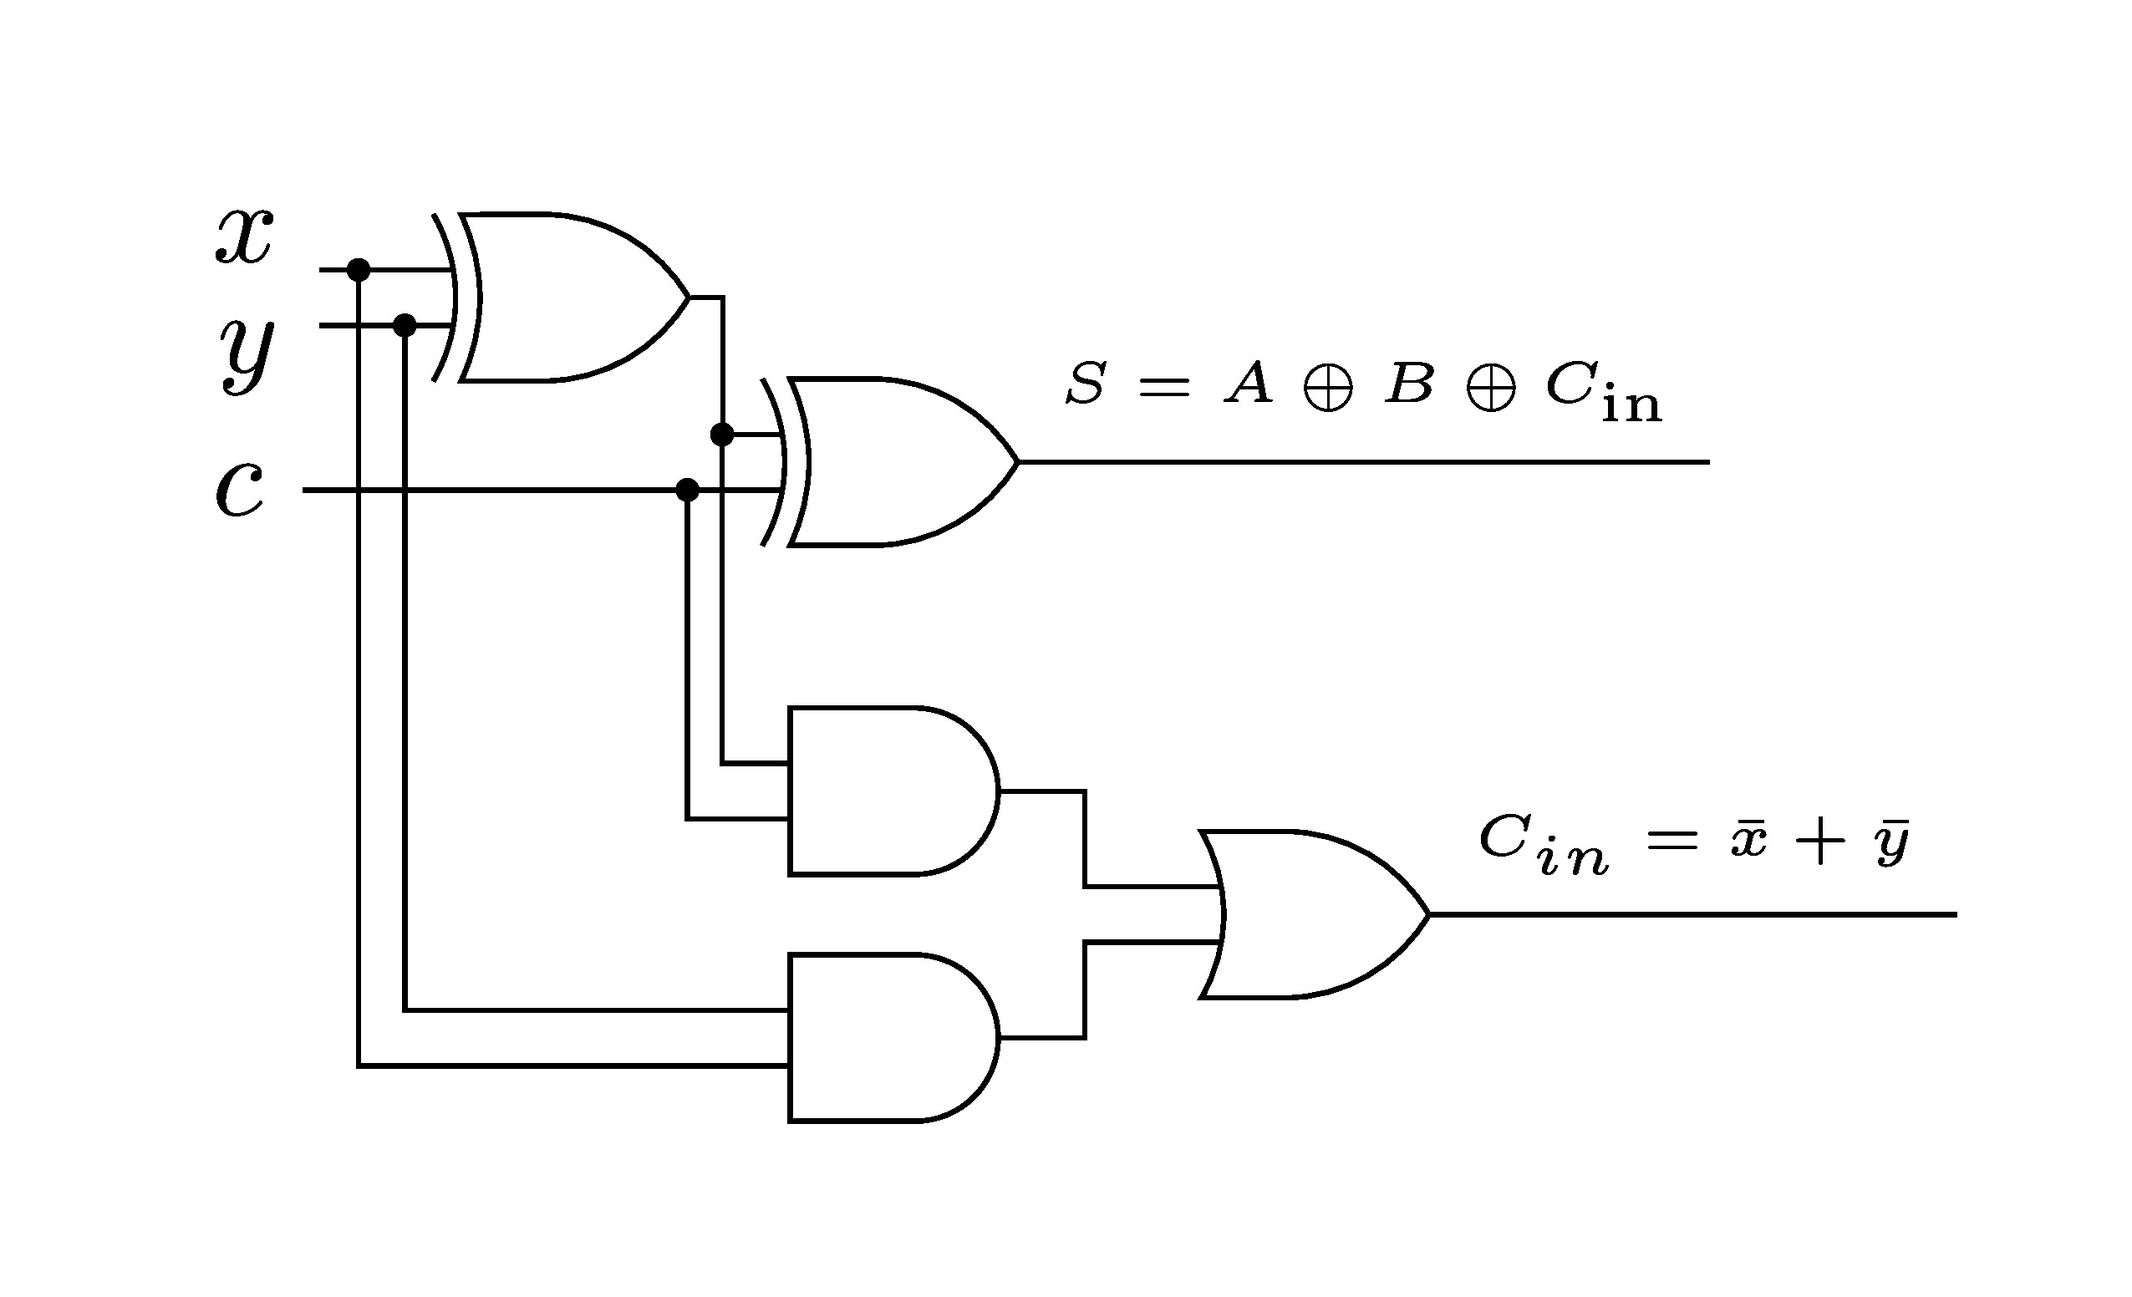
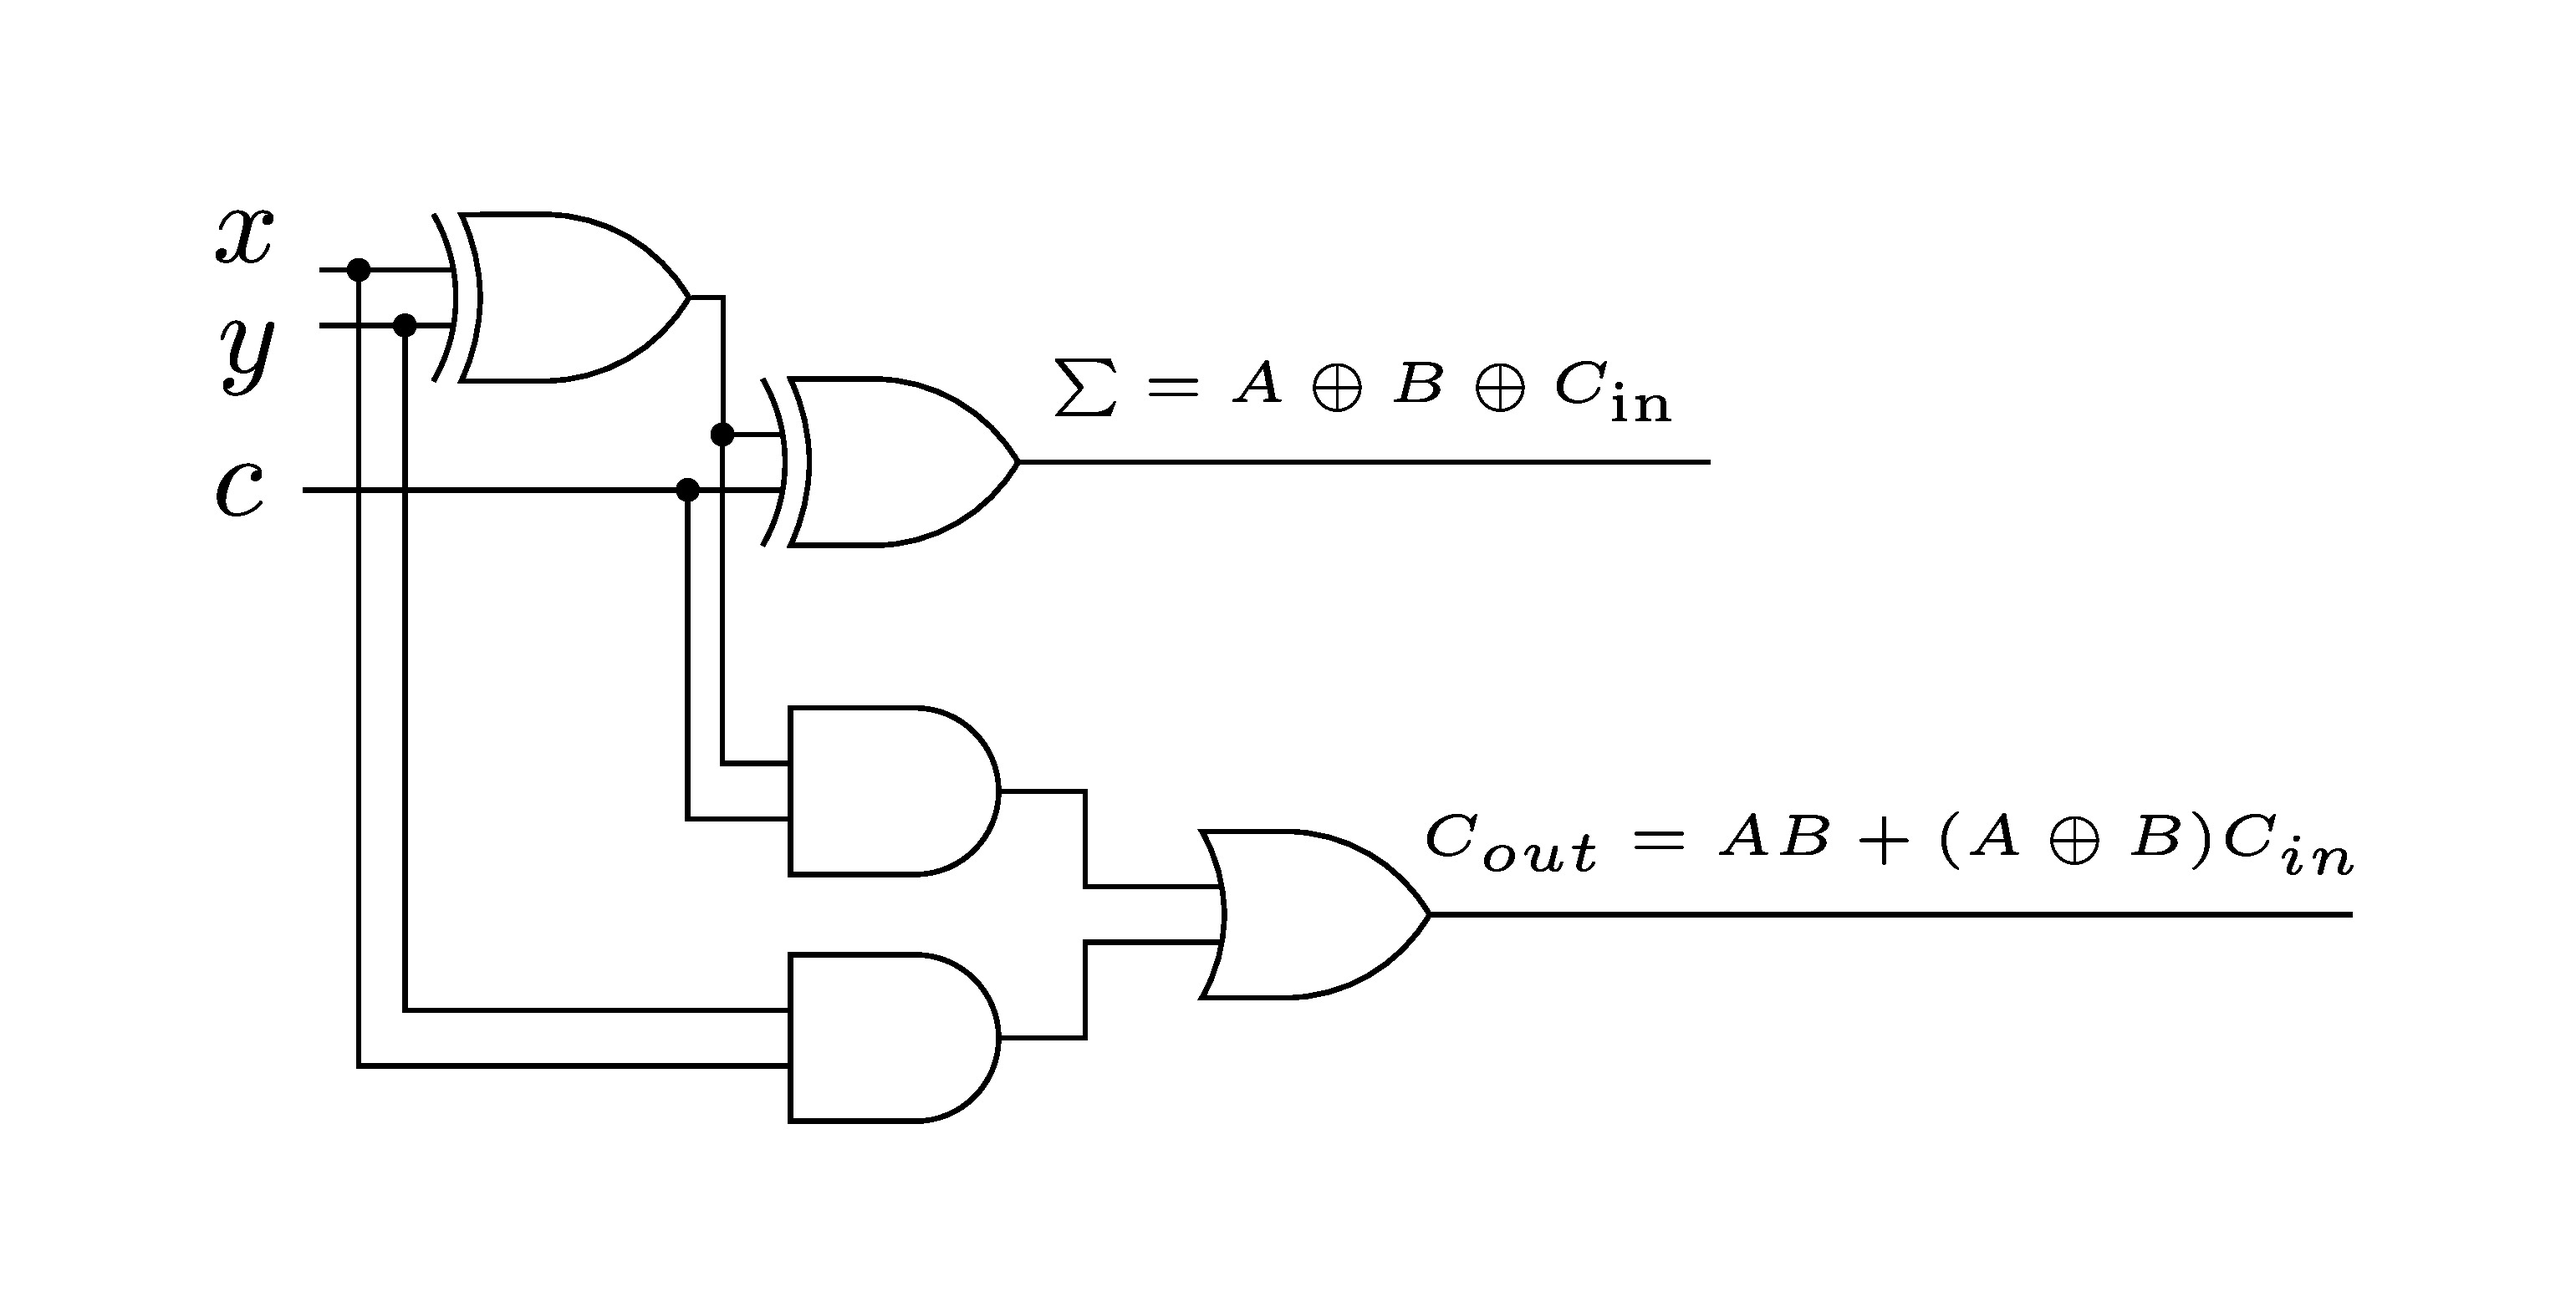
Full Adder Update

Changed region(s): [[0.0619, 0.1546, 0.929, 0.866], [0.1239, 0.8041, 0.1548, 0.8351]]

diff --git a/Full Adder/main.tex b/Full Adder/main.tex
@@ -5,7 +5,6 @@
 
 \begin{document}
 
-\tikzstyle{branch}=[fill,shape=circle,minimum size=3pt,inner sep=0pt]
 \begin{tikzpicture}
     %Gates
     \node[xor gate US, draw] (xor) at (1.0, -0.25) {};
@@ -35,8 +34,8 @@
 
 
     %Boolean Functions
-    \draw (or.output) -- node[above]{\tiny $C_{in} = \bar x + \bar y$} ($(or) + (2.0, 0)$);
-    \draw (xor2.output) -- node[above]{\tiny $S = A \oplus B \oplus C_{\text{in}}$} ($(xor2)+ (2.5,0)$);
+    \draw (or.output) -- node[above]{\tiny $C_{out}= AB + (A \oplus B)C_{in}$} ($(or) + (3.2, 0)$);
+    \draw (xor2.output) -- node[above]{\tiny $\sum = A \oplus B \oplus C_{\text{in}}$} ($(xor2)+ (2.5,0)$);
 
 \end{tikzpicture}
 
